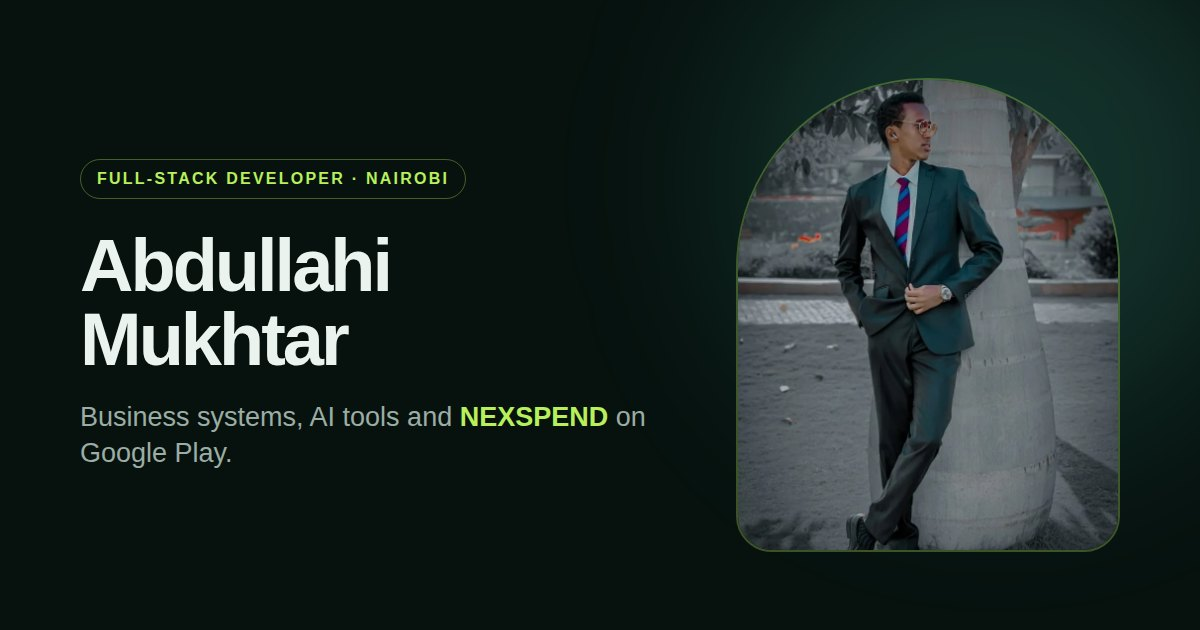
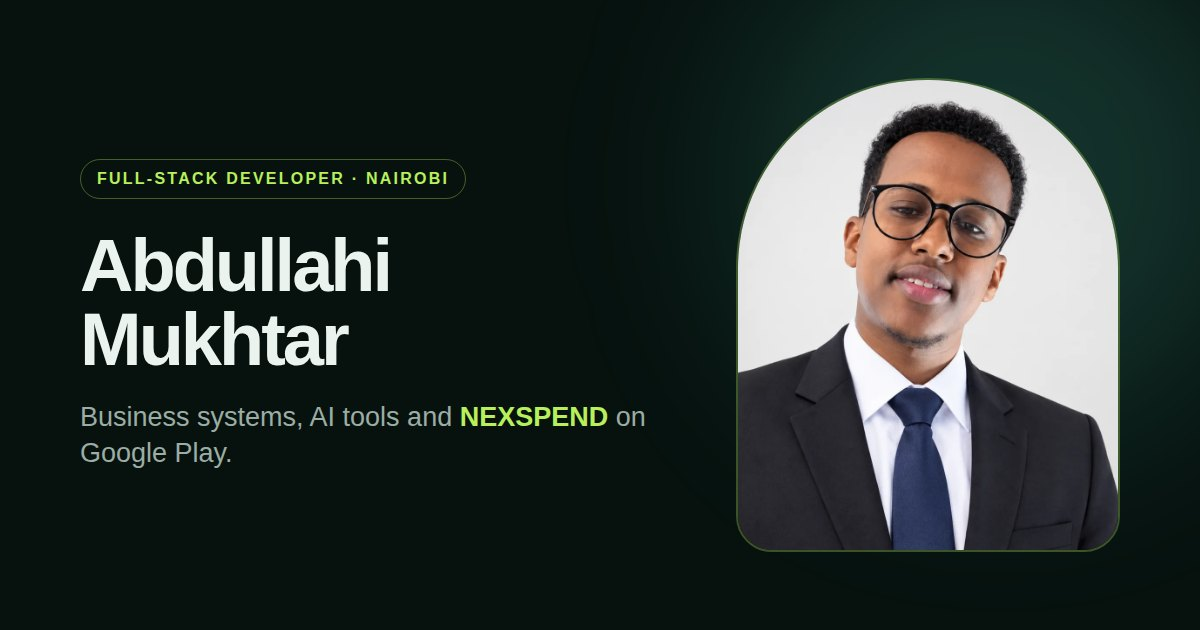
Use new professional headshot
- Replace hero portrait with the studio headshot and recentre the crop
- Regenerate the link-preview image with the new photo
- Fix the apple-touch-icon, which rendered blank

Claude-Session: https://claude.ai/code/session_01XQVRaYEECyD4iLWXEziVb2

Changed region(s): [[0.6167, 0.1206, 0.9558, 0.8746]]

diff --git a/style.css b/style.css
@@ -137,8 +137,8 @@ h1, h2, h3 { font-family: "Manrope", sans-serif; letter-spacing: -.04em; line-he
 .portrait-stage { position: relative; width: min(100%, 430px); justify-self: end; padding: 20px; }
 .portrait-stage::before { content: ""; position: absolute; inset: 4% 0 8% 8%; border: 1px solid rgba(184,240,91,.3); border-radius: 48% 48% 42% 42%; transform: rotate(4deg); }
 .portrait-frame { position: relative; z-index: 1; aspect-ratio: 4 / 5; overflow: hidden; border: 1px solid var(--line); border-radius: 46% 46% 38px 38px; background: var(--card); box-shadow: var(--shadow), 0 0 90px rgba(184,240,91,.08); }
-.portrait-frame::after { content: ""; position: absolute; inset: 0; background: linear-gradient(to top, rgba(7,18,15,.28), transparent 40%); }
-.portrait-frame img { width: 100%; height: 100%; object-fit: cover; object-position: center top; filter: saturate(1.05) contrast(1.05) brightness(1.06); }
+.portrait-frame::after { content: ""; position: absolute; inset: 0; background: linear-gradient(to top, rgba(7,18,15,.18), transparent 30%); }
+.portrait-frame img { width: 100%; height: 100%; object-fit: cover; object-position: center 18%; }
 .floating-note { position: absolute; z-index: 2; display: flex; align-items: center; gap: 11px; min-width: 164px; padding: 12px 14px; border: 1px solid var(--line); border-radius: 16px; background: var(--panel-bg); backdrop-filter: blur(12px); box-shadow: 0 16px 40px rgba(0,0,0,.16); animation: float 6s ease-in-out infinite; }
 .note-bottom { animation-delay: -3s; }
 @keyframes float { 50% { transform: translateY(-8px); } }

diff --git a/index.html b/index.html
@@ -85,7 +85,7 @@
         </div>
         <div class="portrait-stage reveal reveal-delay">
           <div class="portrait-frame">
-            <img src="assets/profile.webp" alt="Portrait of Abdullahi Mukhtar" width="768" height="1024" fetchpriority="high">
+            <img src="assets/profile.webp" alt="Portrait of Abdullahi Mukhtar" width="900" height="1080" fetchpriority="high">
           </div>
           <div class="floating-note note-top">
             <span class="note-icon">{ }</span>
